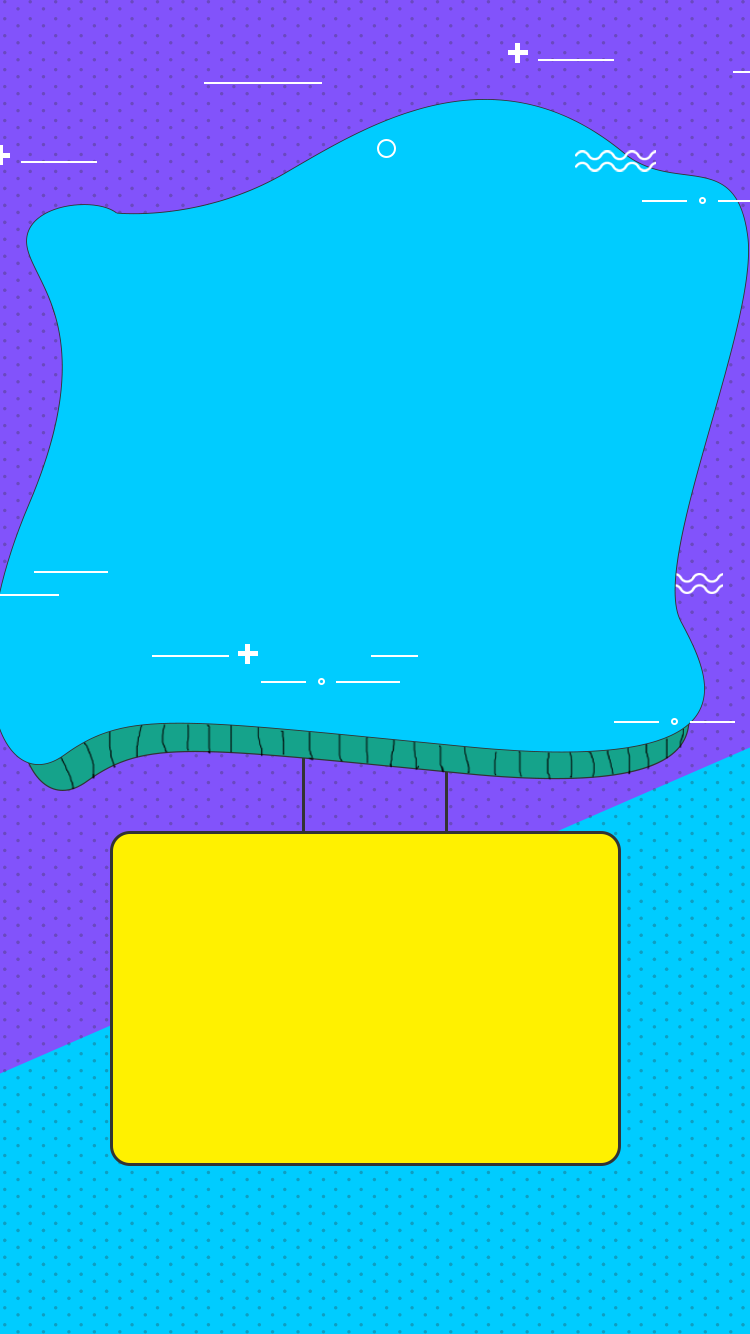
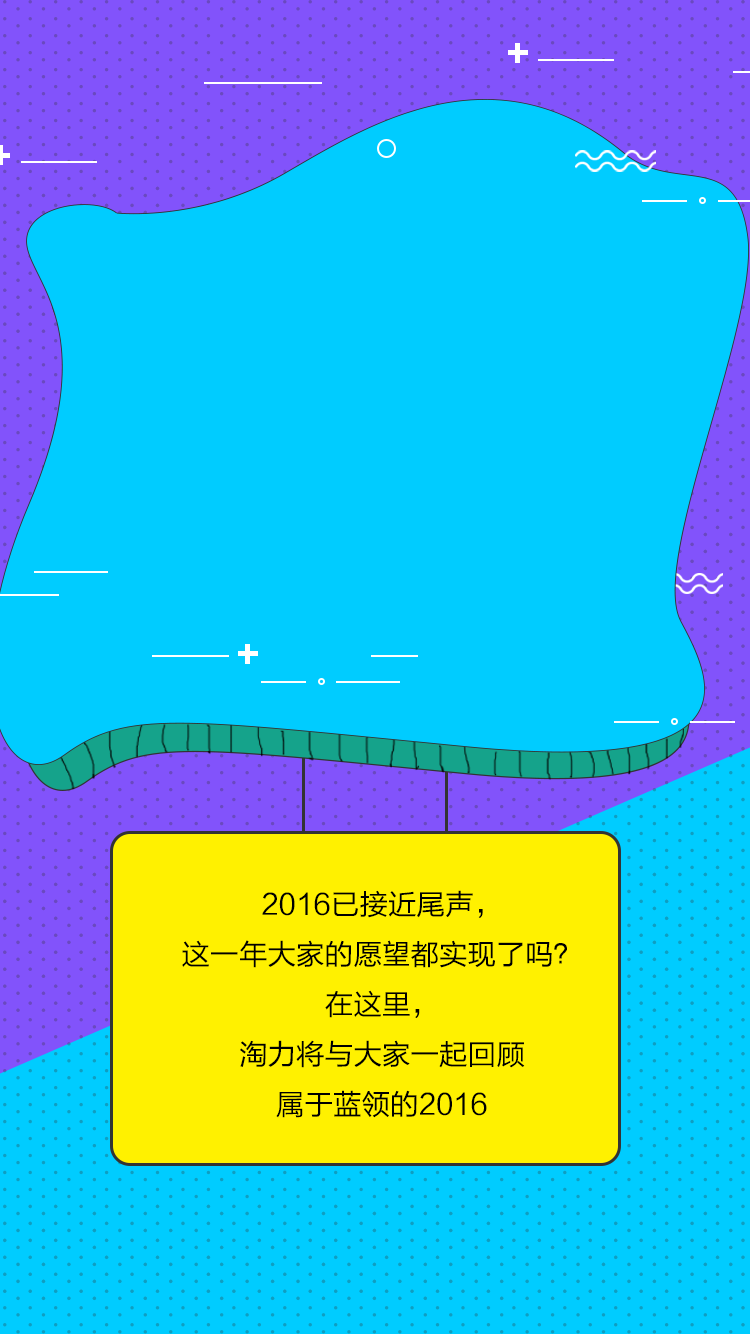
finish first screen animation

Changed region(s): [[0.3067, 0.6454, 0.7667, 0.8606], [0.2453, 0.7069, 0.276, 0.7376]]

diff --git a/css/main.css b/css/main.css
@@ -1,1 +1,1 @@
-body,div,dl,dt,dd,ul,ol,li,h1,h2,h3,h4,h5,h6,pre,code,form,fieldset,legend,input,button,textarea,p,blockquote,th,td{margin:0;padding:0}fieldset,img{border:0}:focus{outline:0}address,caption,cite,code,dfn,em,strong,th,var,optgroup{font-style:normal;font-weight:normal}h1,h2,h3,h4,h5,h6{font-size:100%;font-weight:normal}abbr,acronym{border:0;font-variant:normal}code,kbd,samp,tt{font-size:100%}input,button,textarea,select{font-size:100%;border:none;-webkit-appearance:none;font-family:"Microsoft YaHei"}html{-webkit-tap-highlight-color:transparent;height:100%;min-width:320px;-webkit-text-size-adjust:none;-ms-text-size-adjust:none;text-size-adjust:none;overflow-scrolling:touch}body{background-color:#f4f4f4;font:0.4375rem Microsoft YaHei,SimSun,Arial,Monaco !important}ol,ul{list-style:none}table{border-collapse:collapse;border-spacing:0}caption,th{text-align:left}sup,sub{font-size:100%;vertical-align:baseline}:link,:visited,ins{text-decoration:none}blockquote,q{quotes:none}blockquote:before,blockquote:after,q:before,q:after{content:'';content:none}a{display:block}a:hover{text-decoration:none !important}span{font-family:"Microsoft YaHei"}html{-webkit-box-sizing:border-box;-moz-box-sizing:border-box;box-sizing:border-box}*,*:before,*:after{-webkit-box-sizing:inherit;-moz-box-sizing:inherit;box-sizing:inherit}h1,h2,h3,h4,h5,h6{margin:0;padding:0}@-webkit-keyframes swipeMoveTop{0%{opacity:0;-webkit-transform:translate3d(0, -10px, 0);transform:translate3d(0, -10px, 0)}70%{opacity:1;-webkit-transform:translate3d(0, 0, 0);transform:translate3d(0, 0, 0)}100%{opacity:0;-webkit-transform:translate3d(0, 10px, 0);transform:translate3d(0, 10px, 0)}}@-moz-keyframes swipeMoveTop{0%{opacity:0;-moz-transform:translate3d(0, -10px, 0);transform:translate3d(0, -10px, 0)}70%{opacity:1;-moz-transform:translate3d(0, 0, 0);transform:translate3d(0, 0, 0)}100%{opacity:0;-moz-transform:translate3d(0, 10px, 0);transform:translate3d(0, 10px, 0)}}@-o-keyframes swipeMoveTop{0%{opacity:0;transform:translate3d(0, -10px, 0)}70%{opacity:1;transform:translate3d(0, 0, 0)}100%{opacity:0;transform:translate3d(0, 10px, 0)}}@keyframes swipeMoveTop{0%{opacity:0;-webkit-transform:translate3d(0, -10px, 0);-moz-transform:translate3d(0, -10px, 0);transform:translate3d(0, -10px, 0)}70%{opacity:1;-webkit-transform:translate3d(0, 0, 0);-moz-transform:translate3d(0, 0, 0);transform:translate3d(0, 0, 0)}100%{opacity:0;-webkit-transform:translate3d(0, 10px, 0);-moz-transform:translate3d(0, 10px, 0);transform:translate3d(0, 10px, 0)}}.next-slide{position:absolute;bottom:0;margin:0 auto;left:0;right:0;width:1.16rem;height:1.453rem}.next-slide img{-webkit-animation:swipeMoveTop 1.5s 1s ease infinite;-moz-animation:swipeMoveTop 1.5s 1s ease infinite;-o-animation:swipeMoveTop 1.5s 1s ease infinite;animation:swipeMoveTop 1.5s 1s ease infinite}.next-slide.small{width:0.666rem;height:0.853rem;bottom:0}.next-slide.bottom{bottom:0}.page{overflow:hidden}.loading{width:100%;height:100%;z-index:100;background-color:white;position:relative;display:-webkit-box;display:-webkit-flex;display:-moz-box;display:-ms-flexbox;display:flex;-webkit-box-pack:center;-webkit-justify-content:center;-moz-box-pack:center;-ms-flex-pack:center;justify-content:center;-webkit-box-align:center;-webkit-align-items:center;-moz-box-align:center;-ms-flex-align:center;align-items:center}.page1 .loading img{width:50%;height:auto}body .page-wrap{width:10rem;margin:0 auto}.orientation{display:hidden}@media screen and (orientation: landscape){.orientation{display:-webkit-box;display:-webkit-flex;display:-moz-box;display:-ms-flexbox;display:flex;-webkit-box-align:center;-webkit-align-items:center;-moz-box-align:center;-ms-flex-align:center;align-items:center;-webkit-box-pack:center;-webkit-justify-content:center;-moz-box-pack:center;-ms-flex-pack:center;justify-content:center;-webkit-align-content:center;-ms-flex-line-pack:center;align-content:center;width:100%;height:100%}.page-wrap{display:none}}html,body,.page-wrap{width:100%;height:100%}.page{width:100%;height:100%;-webkit-backface-visibility:hidden;-webkit-perspective:1000}.page1{position:relative}.page1 .background-img{width:100%;height:100%;position:absolute;z-index:-1}.page1 img{width:100%;height:100%}.page1 .main-box{position:absolute;padding:0.5rem;bottom:2.133rem;left:1.466rem;width:6.8rem;height:4.4rem;font-size:0.346rem;text-align:center;line-height:1.8}.page1 .blue-attention{position:absolute;top:4rem;left:1.6rem;width:2.053rem;height:1.773rem}.page1 .bottom-man{position:absolute;bottom:0;right:1.4rem;width:2.173rem;height:4.34rem}.page1 .brush{position:absolute;top:1.466rem;left:1.133rem;width:1.573rem;height:1.72rem}.page1 .sccisors{position:absolute;top:7.733rem;left:0.266rem;width:1.12rem;height:1.253rem}.page1 .year_end{position:absolute;top:2.52rem;right:1.466rem;width:4.90rem;height:3.093rem}.page1 .year_end_list{position:absolute;top:8.533rem;right:1.6rem;width:3.893rem;height:0.773rem}.page1 .count-list{position:absolute;top:5.84rem;left:1.133rem;width:7.026rem;height:2.786rem}.page2{position:relative;padding-top:0.1rem;background-image:url("../imgs/background.png")}.page2 img{width:100%;height:100%}.page2 .title-wrap{position:relative;margin:0 auto;width:8.08rem;height:6.12rem;background-image:url("../imgs/screen2_info_box.png");-moz-background-size:contain;-o-background-size:contain;background-size:contain}.page2 .title-wrap .title{position:absolute;top:0.38rem;left:0;right:0;margin:0 auto;text-align:center;font-size:0.64rem;color:#333333}.page2 .title-wrap .detail{position:absolute;left:0;right:0;top:2rem;margin:0 auto;text-align:center;font-size:0.413rem;color:#333333;line-height:1.5}.page2 .title-wrap .detail.accident{bottom:0.933rem}.page2 a{position:relative;top:0.266rem}.page2 a::before{display:block;content:" ";width:0.04rem;height:0.333rem;position:absolute;top:-0.32rem;background-color:#333333;left:4.133rem}.page2 a::after{display:block;content:" ";width:0.04rem;height:0.333rem;position:absolute;top:-0.32rem;background-color:#333333;right:4.133rem}.page2 a.last-child{top:0.693rem}.page2 a .headline{position:relative;width:9.5rem;margin:0 auto;padding:0.1rem;border:2px solid #636262;-webkit-border-radius:0.3rem;-moz-border-radius:0.3rem;border-radius:0.3rem;font-size:0.44rem;text-align:center;color:#333333;background-color:#ebffb9}.page2 a .headline:after{content:" ";background-image:url(../imgs/title_bottom_edge.png);bottom:-0.213rem;width:9.45rem;height:0.96rem;display:block;-moz-background-size:cover;-o-background-size:cover;background-size:cover;margin:0 auto;left:0;right:0;position:absolute;z-index:-1}.page2 a .news-detail-wrap{display:-webkit-box;display:-webkit-flex;display:-moz-box;display:-ms-flexbox;display:flex;width:8.666rem;margin:0 auto;background-color:white;padding:0.266rem;position:relative;top:0.133rem;border:0.053rem solid #333333;border-top:0;-webkit-border-bottom-right-radius:0.186rem;-moz-border-radius-bottomright:0.186rem;border-bottom-right-radius:0.186rem;-webkit-border-bottom-left-radius:0.186rem;-moz-border-radius-bottomleft:0.186rem;border-bottom-left-radius:0.186rem}.page2 a .news-detail-wrap .img-wrap{width:2.533rem;height:2.533rem}.page2 a .news-detail-wrap .detail{-webkit-box-flex:1;-webkit-flex:1;-moz-box-flex:1;-ms-flex:1;flex:1;color:#333333;font-size:0.34rem;line-height:1.7;padding:0 0 0 0.266rem}.page2 a .news-detail-wrap .detail .view-more{display:block;width:2rem;text-align:center;background-color:#e3ff9b;color:#333333;-webkit-border-radius:0.4rem;-moz-border-radius:0.4rem;border-radius:0.4rem;margin-top:0.186rem}.page3{position:relative;padding-top:0.1rem;background-image:url("../imgs/background.png")}.page3 img{width:100%;height:100%}.page3 .three-man{width:6.12rem;height:5.426rem;margin:0 auto}.page3 .last-info-box{text-align:center;position:relative;background-image:url("../imgs/last_info_box.png");-moz-background-size:cover;-o-background-size:cover;background-size:cover;width:9.053rem;height:8.626rem;margin:0 auto}.page3 .last-info-box .title{font-size:0.64rem;color:#333333;position:absolute;top:0.48rem;margin:0 auto;left:0;right:0}.page3 .last-info-box .details{font-size:0.413rem;color:#333333;position:absolute;margin:0 auto;left:0;right:0;top:2.266rem;line-height:1.7}.page3 .last-info-box .view-more{display:block;font-size:0.28rem;background-color:#fff100;padding:0.1rem 0.213rem;width:1.66rem;margin:0 auto;position:absolute;left:0;right:0;bottom:0.533rem;-webkit-border-radius:0.533rem;-moz-border-radius:0.533rem;border-radius:0.533rem;color:black;border:1px solid #333333}.page5{padding-top:0.2rem;background-image:url("../imgs/bg_screen_5.png");-moz-background-size:cover;-o-background-size:cover;background-size:cover}.page5 img{width:100%;height:100%}.page5 .forward-2017{position:relative;background-image:url("../imgs/forward_2017_info_box.png");text-align:center;-moz-background-size:cover;-o-background-size:cover;background-size:cover;width:8.08rem;height:6.07rem;margin:0 auto}.page5 .forward-2017 .title{position:absolute;top:0.4rem;font-size:0.64rem;color:#e44413;margin:0 auto;left:0;right:0;font-weight:bolder}.page5 .forward-2017 .details{position:absolute;top:2rem;font-size:0.413rem;color:#333333;margin:0 auto;left:0;right:0;line-height:1.8}.page5 .ad-container{position:relative;top:0.31rem}.page5 .ad-container::before{display:block;content:" ";width:0.04rem;height:0.39rem;position:absolute;top:-0.39rem;background-color:#333333;left:4.133rem}.page5 .ad-container::after{display:block;content:" ";width:0.04rem;height:0.39rem;position:absolute;top:-0.39rem;background-color:#333333;right:4.133rem}.page5 .ad-container.tcoin-con{top:0.9rem}.page5 .ad-wrap{position:relative;padding-top:0.666rem;width:8.666rem;height:3.333rem;margin:0 auto;text-align:center;background-color:white;-webkit-border-radius:0.16rem;-moz-border-radius:0.16rem;border-radius:0.16rem;border:0.055rem solid #333333;color:#333333}.page5 .ad-wrap .ad-des{font-size:0.55rem;font-weight:bolder;margin-bottom:0.266rem}.page5 .ad-wrap .ad-title{background-image:url("../imgs/btn_1.png");-moz-background-size:contain;-o-background-size:contain;background-size:contain;background-repeat:no-repeat;width:6.08rem;background-position:center;height:1.066rem;margin:0 auto;font-size:0.52rem;font-weight:bolder;display:-webkit-box;display:-webkit-flex;display:-moz-box;display:-ms-flexbox;display:flex;-webkit-box-pack:center;-webkit-justify-content:center;-moz-box-pack:center;-ms-flex-pack:center;justify-content:center;-webkit-box-align:center;-webkit-align-items:center;-moz-box-align:center;-ms-flex-align:center;align-items:center}.page5 .ad-wrap .ad-title.tcoin{background-image:url("../imgs/btn_2.png")}.page5 .ad-wrap::after{content:" ";background-image:url("../imgs/screen5_btn_edge.png");width:8.6rem;height:3.466rem;display:block;-moz-background-size:contain;-o-background-size:contain;background-size:contain;position:absolute;top:0.16rem;left:0;z-index:-1;background-repeat:no-repeat}.page6{padding-top:0.2rem;background-image:url("../imgs/background.png")}.page6 img{width:100%;height:100%}.page6 .ad-container{position:relative;top:0.31rem}.page6 .ad-container::before{display:block;content:" ";width:0.04rem;height:0.5rem;position:absolute;top:-0.5rem;background-color:#333333;left:4.133rem}.page6 .ad-container::after{display:block;content:" ";width:0.04rem;height:0.5rem;position:absolute;top:-0.5rem;background-color:#333333;right:4.133rem}.page6 .ad-container.tcoin-con{top:1rem}.page6 .ad-wrap{position:relative;padding-top:0.666rem;width:8.666rem;height:3.333rem;margin:0 auto;text-align:center;background-color:white;-webkit-border-radius:0.16rem;-moz-border-radius:0.16rem;border-radius:0.16rem;border:0.055rem solid #333333;color:#333333}.page6 .ad-wrap .ad-des{font-size:0.55rem;font-weight:bolder;margin-bottom:0.266rem}.page6 .ad-wrap .ad-title{background-image:url("../imgs/btn_1.png");-moz-background-size:cover;-o-background-size:cover;background-size:cover;width:5.08rem;height:1.066rem;margin:0 auto;font-size:0.52rem;font-weight:bolder;display:-webkit-box;display:-webkit-flex;display:-moz-box;display:-ms-flexbox;display:flex;-webkit-box-pack:center;-webkit-justify-content:center;-moz-box-pack:center;-ms-flex-pack:center;justify-content:center;-webkit-box-align:center;-webkit-align-items:center;-moz-box-align:center;-ms-flex-align:center;align-items:center}.page6 .ad-wrap .ad-title.tcoin{background-image:url("../imgs/last_button.png")}.page6 .ad-wrap::after{content:" ";background-image:url(../imgs/screen5_btn_edge.png);width:8.6rem;height:3.466rem;display:block;-moz-background-size:contain;-o-background-size:contain;background-size:contain;position:absolute;top:0.16rem;left:0;z-index:-1;background-repeat:no-repeat}.page6 .book-roll{background-image:url("../imgs/book_roll.png");width:6.773rem;height:6.533rem;margin:0 auto;-moz-background-size:cover;-o-background-size:cover;background-size:cover;top:1.5rem;position:relative;display:-webkit-box;display:-webkit-flex;display:-moz-box;display:-ms-flexbox;display:flex;-webkit-box-orient:vertical;-webkit-box-direction:normal;-webkit-flex-direction:column;-moz-box-orient:vertical;-moz-box-direction:normal;-ms-flex-direction:column;flex-direction:column;-webkit-box-pack:center;-webkit-justify-content:center;-moz-box-pack:center;-ms-flex-pack:center;justify-content:center;-webkit-box-align:center;-webkit-align-items:center;-moz-box-align:center;-ms-flex-align:center;align-items:center}.page6 .book-roll .wechat-code{width:2.8rem;height:2.8rem;margin-bottom:0.266rem}.page6 .book-roll .content{font-size:0.346rem}
+body,div,dl,dt,dd,ul,ol,li,h1,h2,h3,h4,h5,h6,pre,code,form,fieldset,legend,input,button,textarea,p,blockquote,th,td{margin:0;padding:0}fieldset,img{border:0}:focus{outline:0}address,caption,cite,code,dfn,em,strong,th,var,optgroup{font-style:normal;font-weight:normal}h1,h2,h3,h4,h5,h6{font-size:100%;font-weight:normal}abbr,acronym{border:0;font-variant:normal}code,kbd,samp,tt{font-size:100%}input,button,textarea,select{font-size:100%;border:none;-webkit-appearance:none;font-family:"Microsoft YaHei"}html{-webkit-tap-highlight-color:transparent;height:100%;min-width:320px;-webkit-text-size-adjust:none;-ms-text-size-adjust:none;text-size-adjust:none;overflow-scrolling:touch}body{background-color:#f4f4f4;font:0.4375rem Microsoft YaHei,SimSun,Arial,Monaco !important}ol,ul{list-style:none}table{border-collapse:collapse;border-spacing:0}caption,th{text-align:left}sup,sub{font-size:100%;vertical-align:baseline}:link,:visited,ins{text-decoration:none}blockquote,q{quotes:none}blockquote:before,blockquote:after,q:before,q:after{content:'';content:none}a{display:block}a:hover{text-decoration:none !important}span{font-family:"Microsoft YaHei"}html{-webkit-box-sizing:border-box;-moz-box-sizing:border-box;box-sizing:border-box}*,*:before,*:after{-webkit-box-sizing:inherit;-moz-box-sizing:inherit;box-sizing:inherit}h1,h2,h3,h4,h5,h6{margin:0;padding:0}@-webkit-keyframes swipeMoveTop{0%{opacity:0;-webkit-transform:translate3d(0, -10px, 0);transform:translate3d(0, -10px, 0)}70%{opacity:1;-webkit-transform:translate3d(0, 0, 0);transform:translate3d(0, 0, 0)}100%{opacity:0;-webkit-transform:translate3d(0, 10px, 0);transform:translate3d(0, 10px, 0)}}@-moz-keyframes swipeMoveTop{0%{opacity:0;-moz-transform:translate3d(0, -10px, 0);transform:translate3d(0, -10px, 0)}70%{opacity:1;-moz-transform:translate3d(0, 0, 0);transform:translate3d(0, 0, 0)}100%{opacity:0;-moz-transform:translate3d(0, 10px, 0);transform:translate3d(0, 10px, 0)}}@-o-keyframes swipeMoveTop{0%{opacity:0;transform:translate3d(0, -10px, 0)}70%{opacity:1;transform:translate3d(0, 0, 0)}100%{opacity:0;transform:translate3d(0, 10px, 0)}}@keyframes swipeMoveTop{0%{opacity:0;-webkit-transform:translate3d(0, -10px, 0);-moz-transform:translate3d(0, -10px, 0);transform:translate3d(0, -10px, 0)}70%{opacity:1;-webkit-transform:translate3d(0, 0, 0);-moz-transform:translate3d(0, 0, 0);transform:translate3d(0, 0, 0)}100%{opacity:0;-webkit-transform:translate3d(0, 10px, 0);-moz-transform:translate3d(0, 10px, 0);transform:translate3d(0, 10px, 0)}}.next-slide{position:absolute;bottom:0;margin:0 auto;left:0;right:0;width:1.16rem;height:1.453rem}.next-slide img{-webkit-animation:swipeMoveTop 1.5s 1s ease infinite;-moz-animation:swipeMoveTop 1.5s 1s ease infinite;-o-animation:swipeMoveTop 1.5s 1s ease infinite;animation:swipeMoveTop 1.5s 1s ease infinite}.next-slide.small{width:0.666rem;height:0.853rem;bottom:0}.next-slide.bottom{bottom:0}.page{overflow:hidden}.loading{width:100%;height:100%;z-index:100;background-color:white;position:relative;display:-webkit-box;display:-webkit-flex;display:-moz-box;display:-ms-flexbox;display:flex;-webkit-box-pack:center;-webkit-justify-content:center;-moz-box-pack:center;-ms-flex-pack:center;justify-content:center;-webkit-box-align:center;-webkit-align-items:center;-moz-box-align:center;-ms-flex-align:center;align-items:center}.page1 .loading img{width:50%;height:auto}body .page-wrap{width:10rem;margin:0 auto}.orientation{display:hidden}@media screen and (orientation: landscape){.orientation{display:-webkit-box;display:-webkit-flex;display:-moz-box;display:-ms-flexbox;display:flex;-webkit-box-align:center;-webkit-align-items:center;-moz-box-align:center;-ms-flex-align:center;align-items:center;-webkit-box-pack:center;-webkit-justify-content:center;-moz-box-pack:center;-ms-flex-pack:center;justify-content:center;-webkit-align-content:center;-ms-flex-line-pack:center;align-content:center;width:100%;height:100%}.page-wrap{display:none}}.animated{-webkit-animation-duration:1s;-moz-animation-duration:1s;-o-animation-duration:1s;animation-duration:1s;-webkit-animation-fill-mode:both;-moz-animation-fill-mode:both;-o-animation-fill-mode:both;animation-fill-mode:both}.animated.infinite{-webkit-animation-iteration-count:infinite;-moz-animation-iteration-count:infinite;-o-animation-iteration-count:infinite;animation-iteration-count:infinite}.animated.hinge{-webkit-animation-duration:2s;-moz-animation-duration:2s;-o-animation-duration:2s;animation-duration:2s}@-webkit-keyframes fadeInLeft{from{opacity:0;-webkit-transform:translate3d(-100%, 0, 0);transform:translate3d(-100%, 0, 0)}to{opacity:1;-webkit-transform:none;transform:none}}@-moz-keyframes fadeInLeft{from{opacity:0;-moz-transform:translate3d(-100%, 0, 0);transform:translate3d(-100%, 0, 0)}to{opacity:1;-moz-transform:none;transform:none}}@-o-keyframes fadeInLeft{from{opacity:0;transform:translate3d(-100%, 0, 0)}to{opacity:1;-o-transform:none;transform:none}}@keyframes fadeInLeft{from{opacity:0;-webkit-transform:translate3d(-100%, 0, 0);-moz-transform:translate3d(-100%, 0, 0);transform:translate3d(-100%, 0, 0)}to{opacity:1;-webkit-transform:none;-moz-transform:none;-o-transform:none;transform:none}}.fadeInLeft{-webkit-animation-name:fadeInLeft;-moz-animation-name:fadeInLeft;-o-animation-name:fadeInLeft;animation-name:fadeInLeft}@-webkit-keyframes fadeInRight{from{opacity:0;-webkit-transform:translate3d(100%, 0, 0);transform:translate3d(100%, 0, 0)}to{opacity:1;-webkit-transform:none;transform:none}}@-moz-keyframes fadeInRight{from{opacity:0;-moz-transform:translate3d(100%, 0, 0);transform:translate3d(100%, 0, 0)}to{opacity:1;-moz-transform:none;transform:none}}@-o-keyframes fadeInRight{from{opacity:0;transform:translate3d(100%, 0, 0)}to{opacity:1;-o-transform:none;transform:none}}@keyframes fadeInRight{from{opacity:0;-webkit-transform:translate3d(100%, 0, 0);-moz-transform:translate3d(100%, 0, 0);transform:translate3d(100%, 0, 0)}to{opacity:1;-webkit-transform:none;-moz-transform:none;-o-transform:none;transform:none}}.fadeInRight{-webkit-animation-name:fadeInRight;-moz-animation-name:fadeInRight;-o-animation-name:fadeInRight;animation-name:fadeInRight}@-webkit-keyframes blueAttention{from{opacity:0;-webkit-transform:translate3d(100%, 0, 0);transform:translate3d(100%, 0, 0)}to{opacity:1;-webkit-transform:none;transform:none}}@-moz-keyframes blueAttention{from{opacity:0;-moz-transform:translate3d(100%, 0, 0);transform:translate3d(100%, 0, 0)}to{opacity:1;-moz-transform:none;transform:none}}@-o-keyframes blueAttention{from{opacity:0;transform:translate3d(100%, 0, 0)}to{opacity:1;-o-transform:none;transform:none}}@keyframes blueAttention{from{opacity:0;-webkit-transform:translate3d(100%, 0, 0);-moz-transform:translate3d(100%, 0, 0);transform:translate3d(100%, 0, 0)}to{opacity:1;-webkit-transform:none;-moz-transform:none;-o-transform:none;transform:none}}.blue-attention{-webkit-animation-name:blueAttention;-moz-animation-name:blueAttention;-o-animation-name:blueAttention;animation-name:blueAttention}@-webkit-keyframes tada{from{-webkit-transform:scale3d(1, 1, 1);transform:scale3d(1, 1, 1)}10%,20%{-webkit-transform:scale3d(0.9, 0.9, 0.9) rotate3d(0, 0, 1, -3deg);transform:scale3d(0.9, 0.9, 0.9) rotate3d(0, 0, 1, -3deg)}30%,50%,70%,90%{-webkit-transform:scale3d(1.1, 1.1, 1.1) rotate3d(0, 0, 1, 3deg);transform:scale3d(1.1, 1.1, 1.1) rotate3d(0, 0, 1, 3deg)}40%,60%,80%{-webkit-transform:scale3d(1.1, 1.1, 1.1) rotate3d(0, 0, 1, -3deg);transform:scale3d(1.1, 1.1, 1.1) rotate3d(0, 0, 1, -3deg)}to{-webkit-transform:scale3d(1, 1, 1);transform:scale3d(1, 1, 1)}}@-moz-keyframes tada{from{-moz-transform:scale3d(1, 1, 1);transform:scale3d(1, 1, 1)}10%,20%{-moz-transform:scale3d(0.9, 0.9, 0.9) rotate3d(0, 0, 1, -3deg);transform:scale3d(0.9, 0.9, 0.9) rotate3d(0, 0, 1, -3deg)}30%,50%,70%,90%{-moz-transform:scale3d(1.1, 1.1, 1.1) rotate3d(0, 0, 1, 3deg);transform:scale3d(1.1, 1.1, 1.1) rotate3d(0, 0, 1, 3deg)}40%,60%,80%{-moz-transform:scale3d(1.1, 1.1, 1.1) rotate3d(0, 0, 1, -3deg);transform:scale3d(1.1, 1.1, 1.1) rotate3d(0, 0, 1, -3deg)}to{-moz-transform:scale3d(1, 1, 1);transform:scale3d(1, 1, 1)}}@-o-keyframes tada{from{transform:scale3d(1, 1, 1)}10%,20%{transform:scale3d(0.9, 0.9, 0.9) rotate3d(0, 0, 1, -3deg)}30%,50%,70%,90%{transform:scale3d(1.1, 1.1, 1.1) rotate3d(0, 0, 1, 3deg)}40%,60%,80%{transform:scale3d(1.1, 1.1, 1.1) rotate3d(0, 0, 1, -3deg)}to{transform:scale3d(1, 1, 1)}}@keyframes tada{from{-webkit-transform:scale3d(1, 1, 1);-moz-transform:scale3d(1, 1, 1);transform:scale3d(1, 1, 1)}10%,20%{-webkit-transform:scale3d(0.9, 0.9, 0.9) rotate3d(0, 0, 1, -3deg);-moz-transform:scale3d(0.9, 0.9, 0.9) rotate3d(0, 0, 1, -3deg);transform:scale3d(0.9, 0.9, 0.9) rotate3d(0, 0, 1, -3deg)}30%,50%,70%,90%{-webkit-transform:scale3d(1.1, 1.1, 1.1) rotate3d(0, 0, 1, 3deg);-moz-transform:scale3d(1.1, 1.1, 1.1) rotate3d(0, 0, 1, 3deg);transform:scale3d(1.1, 1.1, 1.1) rotate3d(0, 0, 1, 3deg)}40%,60%,80%{-webkit-transform:scale3d(1.1, 1.1, 1.1) rotate3d(0, 0, 1, -3deg);-moz-transform:scale3d(1.1, 1.1, 1.1) rotate3d(0, 0, 1, -3deg);transform:scale3d(1.1, 1.1, 1.1) rotate3d(0, 0, 1, -3deg)}to{-webkit-transform:scale3d(1, 1, 1);-moz-transform:scale3d(1, 1, 1);transform:scale3d(1, 1, 1)}}.tada{-webkit-animation-name:tada;-moz-animation-name:tada;-o-animation-name:tada;animation-name:tada}.blue-attention.animated.blue-attention{-webkit-animation-delay:1s;-moz-animation-delay:1s;-o-animation-delay:1s;animation-delay:1s}@-webkit-keyframes bounceInUp{from,60%,75%,90%,to{-webkit-animation-timing-function:cubic-bezier(0.215, 0.61, 0.355, 1);animation-timing-function:cubic-bezier(0.215, 0.61, 0.355, 1)}from{opacity:0;-webkit-transform:translate3d(0, 3000px, 0);transform:translate3d(0, 3000px, 0)}60%{opacity:1;-webkit-transform:translate3d(0, -20px, 0);transform:translate3d(0, -20px, 0)}75%{-webkit-transform:translate3d(0, 10px, 0);transform:translate3d(0, 10px, 0)}90%{-webkit-transform:translate3d(0, -5px, 0);transform:translate3d(0, -5px, 0)}to{-webkit-transform:translate3d(0, 0, 0);transform:translate3d(0, 0, 0)}}@-moz-keyframes bounceInUp{from,60%,75%,90%,to{-moz-animation-timing-function:cubic-bezier(0.215, 0.61, 0.355, 1);animation-timing-function:cubic-bezier(0.215, 0.61, 0.355, 1)}from{opacity:0;-moz-transform:translate3d(0, 3000px, 0);transform:translate3d(0, 3000px, 0)}60%{opacity:1;-moz-transform:translate3d(0, -20px, 0);transform:translate3d(0, -20px, 0)}75%{-moz-transform:translate3d(0, 10px, 0);transform:translate3d(0, 10px, 0)}90%{-moz-transform:translate3d(0, -5px, 0);transform:translate3d(0, -5px, 0)}to{-moz-transform:translate3d(0, 0, 0);transform:translate3d(0, 0, 0)}}@-o-keyframes bounceInUp{from,60%,75%,90%,to{-o-animation-timing-function:cubic-bezier(0.215, 0.61, 0.355, 1);animation-timing-function:cubic-bezier(0.215, 0.61, 0.355, 1)}from{opacity:0;transform:translate3d(0, 3000px, 0)}60%{opacity:1;transform:translate3d(0, -20px, 0)}75%{transform:translate3d(0, 10px, 0)}90%{transform:translate3d(0, -5px, 0)}to{transform:translate3d(0, 0, 0)}}@keyframes bounceInUp{from,60%,75%,90%,to{-webkit-animation-timing-function:cubic-bezier(0.215, 0.61, 0.355, 1);-moz-animation-timing-function:cubic-bezier(0.215, 0.61, 0.355, 1);-o-animation-timing-function:cubic-bezier(0.215, 0.61, 0.355, 1);animation-timing-function:cubic-bezier(0.215, 0.61, 0.355, 1)}from{opacity:0;-webkit-transform:translate3d(0, 3000px, 0);-moz-transform:translate3d(0, 3000px, 0);transform:translate3d(0, 3000px, 0)}60%{opacity:1;-webkit-transform:translate3d(0, -20px, 0);-moz-transform:translate3d(0, -20px, 0);transform:translate3d(0, -20px, 0)}75%{-webkit-transform:translate3d(0, 10px, 0);-moz-transform:translate3d(0, 10px, 0);transform:translate3d(0, 10px, 0)}90%{-webkit-transform:translate3d(0, -5px, 0);-moz-transform:translate3d(0, -5px, 0);transform:translate3d(0, -5px, 0)}to{-webkit-transform:translate3d(0, 0, 0);-moz-transform:translate3d(0, 0, 0);transform:translate3d(0, 0, 0)}}.bounceInUp{-webkit-animation-name:bounceInUp;-moz-animation-name:bounceInUp;-o-animation-name:bounceInUp;animation-name:bounceInUp}.sccisors.animated.fadeInLeft{-webkit-animation-delay:2s;-moz-animation-delay:2s;-o-animation-delay:2s;animation-delay:2s}@-webkit-keyframes cuteBrush{from{top:1.466rem;left:1.133rem}50%{top:1.666rem;left:1.333rem}to{top:1.466rem;left:1.133rem}}@-moz-keyframes cuteBrush{from{top:1.466rem;left:1.133rem}50%{top:1.666rem;left:1.333rem}to{top:1.466rem;left:1.133rem}}@-o-keyframes cuteBrush{from{top:1.466rem;left:1.133rem}50%{top:1.666rem;left:1.333rem}to{top:1.466rem;left:1.133rem}}@keyframes cuteBrush{from{top:1.466rem;left:1.133rem}50%{top:1.666rem;left:1.333rem}to{top:1.466rem;left:1.133rem}}.cute-brush{-webkit-animation-name:cuteBrush;-moz-animation-name:cuteBrush;-o-animation-name:cuteBrush;animation-name:cuteBrush;-webkit-animation-delay:3s;-moz-animation-delay:3s;-o-animation-delay:3s;animation-delay:3s}.tada{-webkit-animation-name:cuteBrush;-moz-animation-name:cuteBrush;-o-animation-name:cuteBrush;animation-name:cuteBrush}html,body,.page-wrap{width:100%;height:100%}.page{width:100%;height:100%;-webkit-backface-visibility:hidden;-webkit-perspective:1000}.page1{position:relative}.page1 .background-img{width:100%;height:100%;position:absolute;z-index:-1}.page1 .background-img img{height:auto}.page1 img{width:100%;height:100%}.page1 .main-box{position:absolute;padding:0.5rem;bottom:2.133rem;left:1.466rem;width:6.8rem;height:4.4rem;font-size:0;text-align:center;line-height:1.8}.page1 .blue-attention{position:absolute;top:4rem;left:1.6rem;width:2.053rem;height:1.773rem}.page1 .bottom-man{position:absolute;bottom:0;right:0.4rem;width:2.173rem;height:4.34rem}.page1 .brush{position:absolute;top:1.466rem;left:1.133rem;width:1.573rem;height:1.72rem}.page1 .sccisors{position:absolute;top:7.733rem;left:0.266rem;width:1.12rem;height:1.253rem}.page1 .year_end{position:absolute;top:2.52rem;right:1.466rem;width:4.90rem;height:3.093rem}.page1 .year_end_list{position:absolute;top:8.533rem;right:1.6rem;width:3.893rem;height:0.773rem}.page1 .count-list{position:absolute;top:5.84rem;left:1.133rem;width:7.026rem;height:2.786rem}.page2{position:relative;padding-top:0.1rem;background-image:url("../imgs/background.png")}.page2 img{width:100%;height:100%}.page2 .title-wrap{position:relative;margin:0 auto;width:8.08rem;height:6.12rem;background-image:url("../imgs/screen2_info_box.png");-moz-background-size:contain;-o-background-size:contain;background-size:contain}.page2 .title-wrap .title{position:absolute;top:0.38rem;left:0;right:0;margin:0 auto;text-align:center;font-size:0.64rem;color:#333333}.page2 .title-wrap .detail{position:absolute;left:0;right:0;top:2rem;margin:0 auto;text-align:center;font-size:0.413rem;color:#333333;line-height:1.5}.page2 .title-wrap .detail.accident{bottom:0.933rem}.page2 a{position:relative;top:0.266rem}.page2 a::before{display:block;content:" ";width:0.04rem;height:0.333rem;position:absolute;top:-0.32rem;background-color:#333333;left:4.133rem}.page2 a::after{display:block;content:" ";width:0.04rem;height:0.333rem;position:absolute;top:-0.32rem;background-color:#333333;right:4.133rem}.page2 a.last-child{top:0.693rem}.page2 a .headline{position:relative;width:9.5rem;margin:0 auto;padding:0.1rem;border:2px solid #636262;-webkit-border-radius:0.3rem;-moz-border-radius:0.3rem;border-radius:0.3rem;font-size:0.44rem;text-align:center;color:#333333;background-color:#ebffb9}.page2 a .headline:after{content:" ";background-image:url(../imgs/title_bottom_edge.png);bottom:-0.213rem;width:9.45rem;height:0.96rem;display:block;-moz-background-size:cover;-o-background-size:cover;background-size:cover;margin:0 auto;left:0;right:0;position:absolute;z-index:-1}.page2 a .news-detail-wrap{display:-webkit-box;display:-webkit-flex;display:-moz-box;display:-ms-flexbox;display:flex;width:8.666rem;margin:0 auto;background-color:white;padding:0.266rem;position:relative;top:0.133rem;border:0.053rem solid #333333;border-top:0;-webkit-border-bottom-right-radius:0.186rem;-moz-border-radius-bottomright:0.186rem;border-bottom-right-radius:0.186rem;-webkit-border-bottom-left-radius:0.186rem;-moz-border-radius-bottomleft:0.186rem;border-bottom-left-radius:0.186rem}.page2 a .news-detail-wrap .img-wrap{width:2.533rem;height:2.533rem}.page2 a .news-detail-wrap .detail{-webkit-box-flex:1;-webkit-flex:1;-moz-box-flex:1;-ms-flex:1;flex:1;color:#333333;font-size:0.34rem;line-height:1.7;padding:0 0 0 0.266rem}.page2 a .news-detail-wrap .detail .view-more{display:block;width:2rem;text-align:center;background-color:#e3ff9b;color:#333333;-webkit-border-radius:0.4rem;-moz-border-radius:0.4rem;border-radius:0.4rem;margin-top:0.186rem}.page3{position:relative;padding-top:0.1rem;background-image:url("../imgs/background.png")}.page3 img{width:100%;height:100%}.page3 .three-man{width:6.12rem;height:5.426rem;margin:0 auto}.page3 .last-info-box{text-align:center;position:relative;background-image:url("../imgs/last_info_box.png");-moz-background-size:cover;-o-background-size:cover;background-size:cover;width:9.053rem;height:8.626rem;margin:0 auto}.page3 .last-info-box .title{font-size:0.64rem;color:#333333;position:absolute;top:0.48rem;margin:0 auto;left:0;right:0}.page3 .last-info-box .details{font-size:0.413rem;color:#333333;position:absolute;margin:0 auto;left:0;right:0;top:2.266rem;line-height:1.7}.page3 .last-info-box .view-more{display:block;font-size:0.28rem;background-color:#fff100;padding:0.1rem 0.213rem;width:1.66rem;margin:0 auto;position:absolute;left:0;right:0;bottom:0.533rem;-webkit-border-radius:0.533rem;-moz-border-radius:0.533rem;border-radius:0.533rem;color:black;border:1px solid #333333}.page5{padding-top:0.2rem;background-image:url("../imgs/bg_screen_5.png");-moz-background-size:cover;-o-background-size:cover;background-size:cover}.page5 img{width:100%;height:100%}.page5 .forward-2017{position:relative;background-image:url("../imgs/forward_2017_info_box.png");text-align:center;-moz-background-size:cover;-o-background-size:cover;background-size:cover;width:8.08rem;height:6.07rem;margin:0 auto}.page5 .forward-2017 .title{position:absolute;top:0.4rem;font-size:0.64rem;color:#e44413;margin:0 auto;left:0;right:0;font-weight:bolder}.page5 .forward-2017 .details{position:absolute;top:2rem;font-size:0.413rem;color:#333333;margin:0 auto;left:0;right:0;line-height:1.8}.page5 .ad-container{position:relative;top:0.31rem}.page5 .ad-container::before{display:block;content:" ";width:0.04rem;height:0.39rem;position:absolute;top:-0.39rem;background-color:#333333;left:4.133rem}.page5 .ad-container::after{display:block;content:" ";width:0.04rem;height:0.39rem;position:absolute;top:-0.39rem;background-color:#333333;right:4.133rem}.page5 .ad-container.tcoin-con{top:0.9rem}.page5 .ad-wrap{position:relative;padding-top:0.666rem;width:8.666rem;height:3.333rem;margin:0 auto;text-align:center;background-color:white;-webkit-border-radius:0.16rem;-moz-border-radius:0.16rem;border-radius:0.16rem;border:0.055rem solid #333333;color:#333333}.page5 .ad-wrap .ad-des{font-size:0.55rem;font-weight:bolder;margin-bottom:0.266rem}.page5 .ad-wrap .ad-title{background-image:url("../imgs/btn_1.png");-moz-background-size:contain;-o-background-size:contain;background-size:contain;background-repeat:no-repeat;width:6.08rem;background-position:center;height:1.066rem;margin:0 auto;font-size:0.52rem;font-weight:bolder;display:-webkit-box;display:-webkit-flex;display:-moz-box;display:-ms-flexbox;display:flex;-webkit-box-pack:center;-webkit-justify-content:center;-moz-box-pack:center;-ms-flex-pack:center;justify-content:center;-webkit-box-align:center;-webkit-align-items:center;-moz-box-align:center;-ms-flex-align:center;align-items:center}.page5 .ad-wrap .ad-title.tcoin{background-image:url("../imgs/btn_2.png")}.page5 .ad-wrap::after{content:" ";background-image:url("../imgs/screen5_btn_edge.png");width:8.6rem;height:3.466rem;display:block;-moz-background-size:contain;-o-background-size:contain;background-size:contain;position:absolute;top:0.16rem;left:0;z-index:-1;background-repeat:no-repeat}.page6{padding-top:0.2rem;background-image:url("../imgs/background.png")}.page6 img{width:100%;height:100%}.page6 .ad-container{position:relative;top:0.31rem}.page6 .ad-container::before{display:block;content:" ";width:0.04rem;height:0.5rem;position:absolute;top:-0.5rem;background-color:#333333;left:4.133rem}.page6 .ad-container::after{display:block;content:" ";width:0.04rem;height:0.5rem;position:absolute;top:-0.5rem;background-color:#333333;right:4.133rem}.page6 .ad-container.tcoin-con{top:1rem}.page6 .ad-wrap{position:relative;padding-top:0.666rem;width:8.666rem;height:3.333rem;margin:0 auto;text-align:center;background-color:white;-webkit-border-radius:0.16rem;-moz-border-radius:0.16rem;border-radius:0.16rem;border:0.055rem solid #333333;color:#333333}.page6 .ad-wrap .ad-des{font-size:0.55rem;font-weight:bolder;margin-bottom:0.266rem}.page6 .ad-wrap .ad-title{background-image:url("../imgs/btn_1.png");-moz-background-size:cover;-o-background-size:cover;background-size:cover;width:5.08rem;height:1.066rem;margin:0 auto;font-size:0.52rem;font-weight:bolder;display:-webkit-box;display:-webkit-flex;display:-moz-box;display:-ms-flexbox;display:flex;-webkit-box-pack:center;-webkit-justify-content:center;-moz-box-pack:center;-ms-flex-pack:center;justify-content:center;-webkit-box-align:center;-webkit-align-items:center;-moz-box-align:center;-ms-flex-align:center;align-items:center}.page6 .ad-wrap .ad-title.tcoin{background-image:url("../imgs/last_button.png")}.page6 .ad-wrap::after{content:" ";background-image:url(../imgs/screen5_btn_edge.png);width:8.6rem;height:3.466rem;display:block;-moz-background-size:contain;-o-background-size:contain;background-size:contain;position:absolute;top:0.16rem;left:0;z-index:-1;background-repeat:no-repeat}.page6 .book-roll{background-image:url("../imgs/book_roll.png");width:6.773rem;height:6.533rem;margin:0 auto;-moz-background-size:cover;-o-background-size:cover;background-size:cover;top:1.5rem;position:relative;display:-webkit-box;display:-webkit-flex;display:-moz-box;display:-ms-flexbox;display:flex;-webkit-box-orient:vertical;-webkit-box-direction:normal;-webkit-flex-direction:column;-moz-box-orient:vertical;-moz-box-direction:normal;-ms-flex-direction:column;flex-direction:column;-webkit-box-pack:center;-webkit-justify-content:center;-moz-box-pack:center;-ms-flex-pack:center;justify-content:center;-webkit-box-align:center;-webkit-align-items:center;-moz-box-align:center;-ms-flex-align:center;align-items:center}.page6 .book-roll .wechat-code{width:2.8rem;height:2.8rem;margin-bottom:0.266rem}.page6 .book-roll .content{font-size:0.346rem}

diff --git a/sass/1-tools/_global.scss b/sass/1-tools/_global.scss
@@ -91,3 +91,160 @@ body .page-wrap{
     display: none;
   }
 }
+
+.animated {
+  animation-duration: 1s;
+  animation-fill-mode: both;
+}
+
+.animated.infinite {
+  animation-iteration-count: infinite;
+}
+
+.animated.hinge {
+  animation-duration: 2s;
+}
+
+@keyframes fadeInLeft {
+  from {
+    opacity: 0;
+    transform: translate3d(-100%, 0, 0);
+  }
+
+  to {
+    opacity: 1;
+    transform: none;
+  }
+}
+
+.fadeInLeft {
+  animation-name: fadeInLeft;
+}
+
+@keyframes fadeInRight {
+  from {
+    opacity: 0;
+    transform: translate3d(100%, 0, 0);
+  }
+
+  to {
+    opacity: 1;
+    transform: none;
+  }
+}
+
+.fadeInRight {
+  animation-name: fadeInRight;
+}
+
+@keyframes blueAttention {
+  from {
+    opacity: 0;
+    transform: translate3d(100%, 0, 0);
+  }
+
+  to {
+    opacity: 1;
+    transform: none;
+  }
+}
+
+.blue-attention{
+  animation-name: blueAttention;
+}
+
+@keyframes tada {
+  from {
+    transform: scale3d(1, 1, 1);
+  }
+
+  10%, 20% {
+    transform: scale3d(.9, .9, .9) rotate3d(0, 0, 1, -3deg);
+  }
+
+  30%, 50%, 70%, 90% {
+    transform: scale3d(1.1, 1.1, 1.1) rotate3d(0, 0, 1, 3deg);
+  }
+
+  40%, 60%, 80% {
+    transform: scale3d(1.1, 1.1, 1.1) rotate3d(0, 0, 1, -3deg);
+  }
+
+  to {
+    transform: scale3d(1, 1, 1);
+  }
+}
+
+.tada {
+  animation-name: tada;
+}
+
+.blue-attention.animated.blue-attention{
+  animation-delay: 1s;
+}
+
+
+@keyframes bounceInUp {
+  from, 60%, 75%, 90%, to {
+    animation-timing-function: cubic-bezier(0.215, 0.610, 0.355, 1.000);
+  }
+
+  from {
+    opacity: 0;
+    transform: translate3d(0, 3000px, 0);
+  }
+
+  60% {
+    opacity: 1;
+    transform: translate3d(0, -20px, 0);
+  }
+
+  75% {
+    transform: translate3d(0, 10px, 0);
+  }
+
+  90% {
+    transform: translate3d(0, -5px, 0);
+  }
+
+  to {
+    transform: translate3d(0, 0, 0);
+  }
+}
+
+.bounceInUp {
+  animation-name: bounceInUp;
+}
+
+.sccisors.animated.fadeInLeft{
+  animation-delay: 2s;
+}
+
+
+
+
+@keyframes cuteBrush {
+  from {
+    top: 1.466rem;
+    left: 1.133rem;
+  }
+
+  50%{
+    top: 1.666rem;
+    left: 1.333rem;
+  }
+
+  to {
+    top: 1.466rem;
+    left: 1.133rem;
+  }
+}
+
+.cute-brush{
+  animation-name: cuteBrush;
+  animation-delay: 3s;
+}
+
+.tada {
+  animation-name: cuteBrush;
+}

diff --git a/html/year_end_activity.html b/html/year_end_activity.html
@@ -19,13 +19,13 @@
       <div class="page page1">
         <div class="loading"><img src="../imgs/loading.gif"></div>
         <div class="background-img"><img src="../imgs/bg_first_screen.png"></div>
-        <div class="blue-attention"><img src="../imgs/blue_color_attention.png"></div>
+        <div class="blue-attention animated"><img src="../imgs/blue_color_attention.png"></div>
         <div class="bottom-man"><img src="../imgs/bottom_man.png"></div>
-        <div class="brush"><img src="../imgs/brush.png"></div>
-        <div class="sccisors"><img src="../imgs/sccisors.png"></div>
-        <div class="year_end"><img src="../imgs/year_end.png"></div>
-        <div class="year_end_list"><img src="../imgs/2016_year_end_list.png"></div>
-        <div class="count-list"><img src="../imgs/count_list.png"></div>
+        <div class="brush animated cute-brush infinite"><img src="../imgs/brush.png"></div>
+        <div class="sccisors animated fadeInLeft"><img src="../imgs/sccisors.png"></div>
+        <div class="year_end animated fadeInRight"><img src="../imgs/year_end.png"></div>
+        <div class="year_end_list animated bounceInUp"><img src="../imgs/2016_year_end_list.png"></div>
+        <div class="count-list animated fadeInRight"><img src="../imgs/count_list.png"></div>
         <div class="next-slide big"><img src="../imgs/next_slide.png"></div>
         <div class="main-box">2016已接近尾声，<br>这一年大家的愿望都实现了吗？<br>在这里，<br>淘力将与大家一起回顾<br>属于蓝领的2016</div>
       </div>

diff --git a/sass/3-pages/_page1.scss b/sass/3-pages/_page1.scss
@@ -5,6 +5,9 @@
     height: 100%;
     position: absolute;
     z-index: -1;
+    img{
+      height: auto;
+    }
   }
 
   img{
@@ -19,7 +22,7 @@
     left: 1.466rem;
     width: 6.8rem;
     height: 4.4rem;
-    font-size: 0.346rem;
+    font-size: 0;
     text-align: center;
     line-height: 1.8;
   }
@@ -35,7 +38,7 @@
   .bottom-man{
     position: absolute;
     bottom: 0;
-    right: 1.4rem;
+    right: 0.4rem;
     width: 2.173rem;
     height: 4.34rem;
   }
